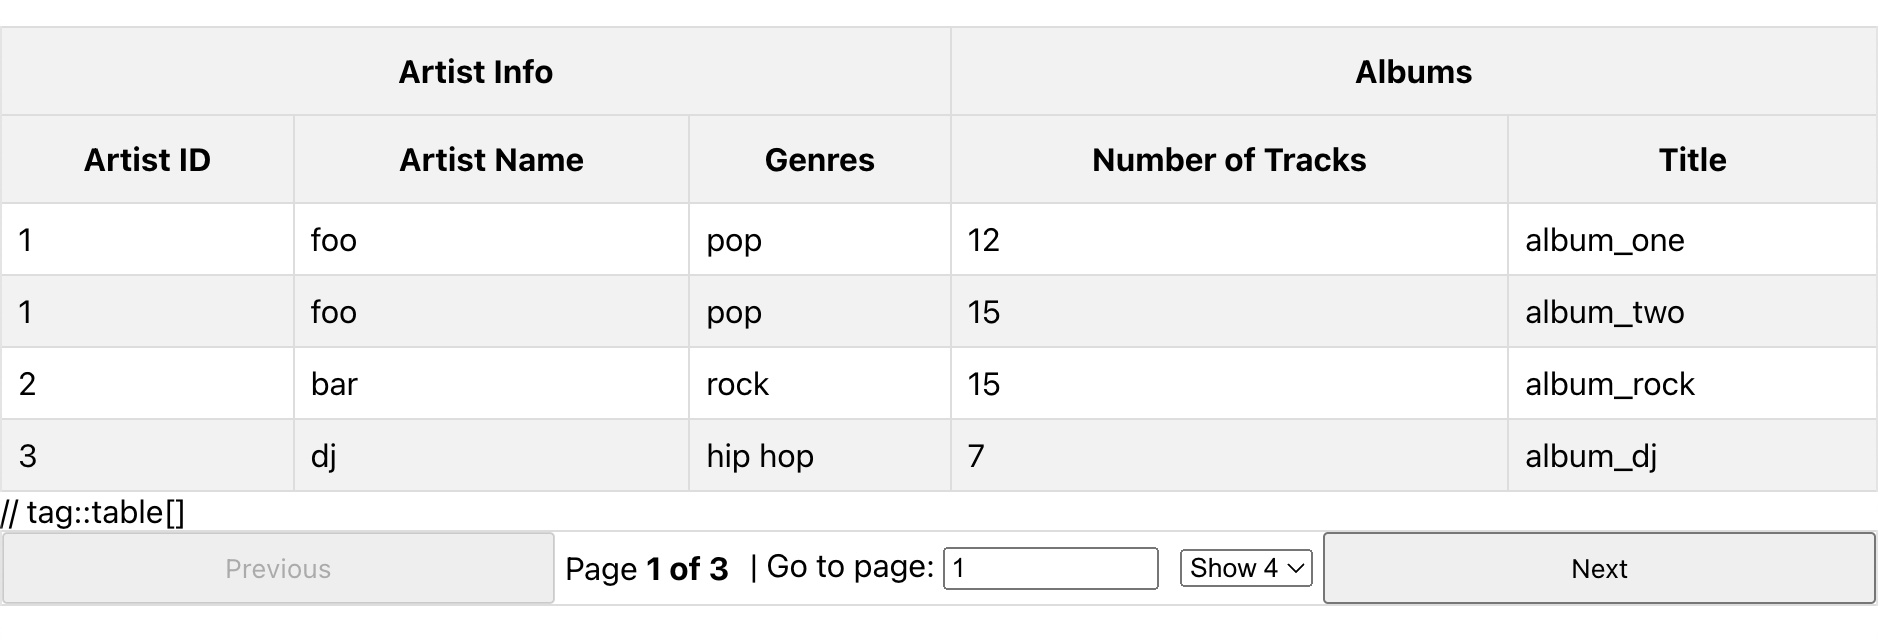
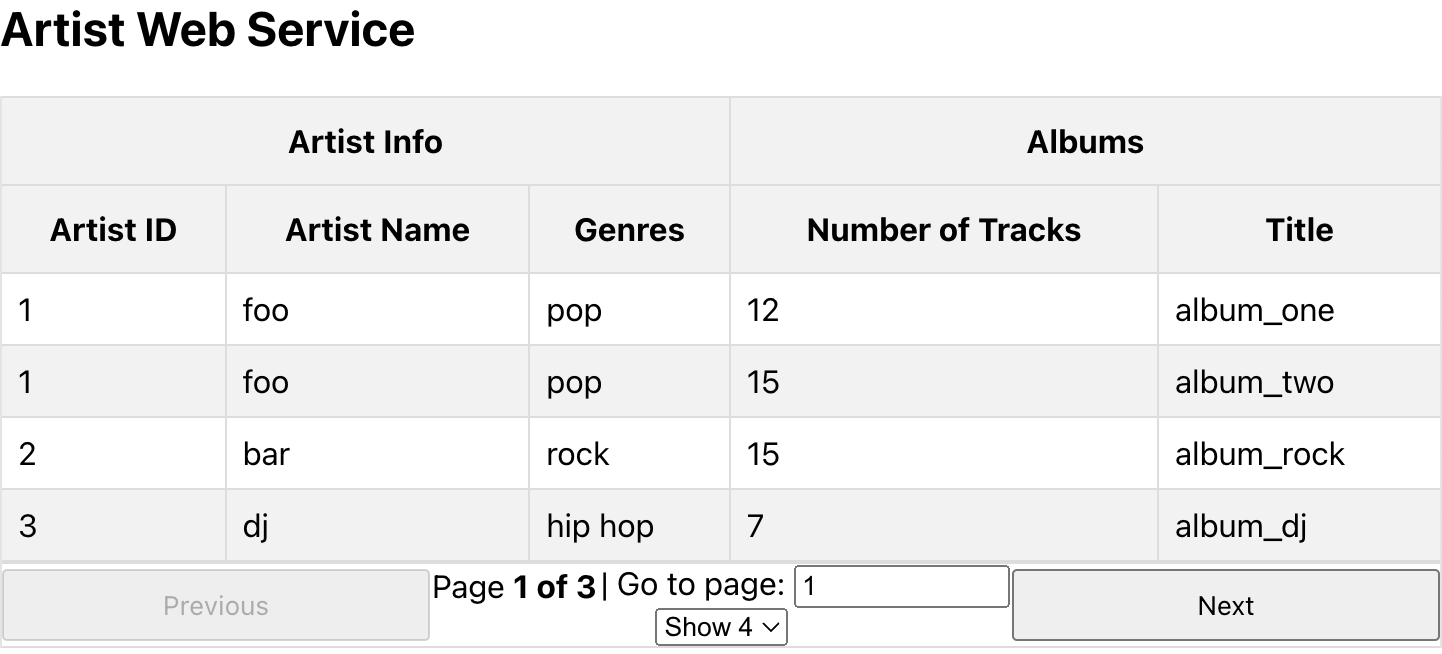
Fixing image

diff --git a/finish/src/main/webapp/index.html b/finish/src/main/webapp/index.html
@@ -1,1 +1,1 @@
-<!doctype html><html lang="en"><head><title>React App</title><script defer="defer" src="/static/js/main.6876fe13.js"></script><link href="/static/css/main.05860167.css" rel="stylesheet"></head><body><noscript>You need to enable JavaScript to run this app.</noscript><div id="root"></div></body></html>
+<!doctype html><html lang="en"><head><title>React App</title><script defer="defer" src="/static/js/main.ce81d4bb.js"></script><link href="/static/css/main.05860167.css" rel="stylesheet"></head><body><noscript>You need to enable JavaScript to run this app.</noscript><div id="root"></div></body></html>

diff --git a/finish/src/main/frontend/src/Components/ArtistTable.js b/finish/src/main/frontend/src/Components/ArtistTable.js
@@ -133,6 +133,7 @@ export function ArtistTable() {
   return (
     <>
       <h2>Artist Web Service</h2>
+      {/* tag::table[] */}
       <table {...getTableProps()}>
         <thead>
           {headerGroups.map(headerGroup => (
@@ -165,7 +166,7 @@ export function ArtistTable() {
           })}
         </tbody>
       </table>
-      // tag::table[]
+      {/* end::table[] */}
       <div className="pagination">
         <button onClick={() => previousPage()} disabled={!canPreviousPage}>
           {'Previous'}
